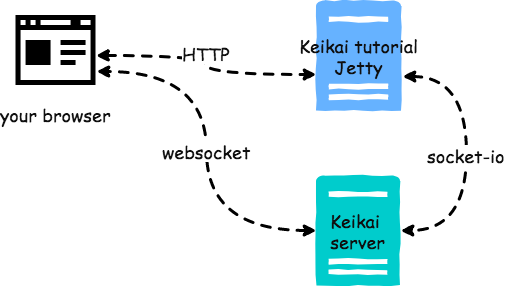
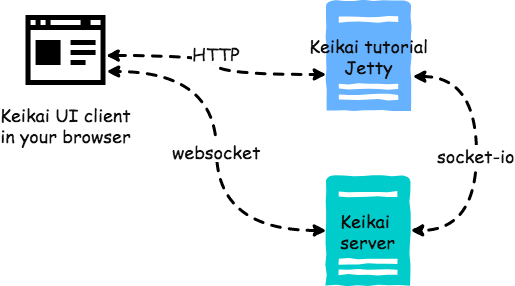
update project architecture

diff --git a/readme.md b/readme.md
@@ -69,7 +69,7 @@ Microsoft Excel Open XML Document (**.xlsx**) only
 
 
 # Scenarios to Demonstrate
-## Online Excel File Editor
+## Online XLSX File Editor
 This project demonstrates how you can use Keikai as an online xlsx editor, providing the familiar spreadsheet experiences in the Web such as formula, filtering, sorting, conditional formatting, and so on. To try out the demo, you can upload an Excel file and edit it in a browser. Please visit [http://localhost:8080/tutorial/editor](http://localhost:8080/tutorial/editor) with you browser.
 
 If you fail to import an xlsx file, please kindly send the file to [info@keikai.io](mailto:info@keikai.io).
@@ -94,8 +94,8 @@ This project saves data into [HSQLDB](http://hsqldb.org/). Note that this is jus
 # Project Architecture
 ![architecture.png](architecture.png)
 
-* When calling Keikai Java client API, it communicates with Keikai server.
-* Keikai server communicates with Keikai client in a browser to render a sheet and exchange data.
+* The tutorial application calls Keikai Java client API to communicates with Keikai server.
+* Keikai server communicates with Keikai UI client in a browser to render a sheet and exchange data.
 
 
 # Import Larger Files
